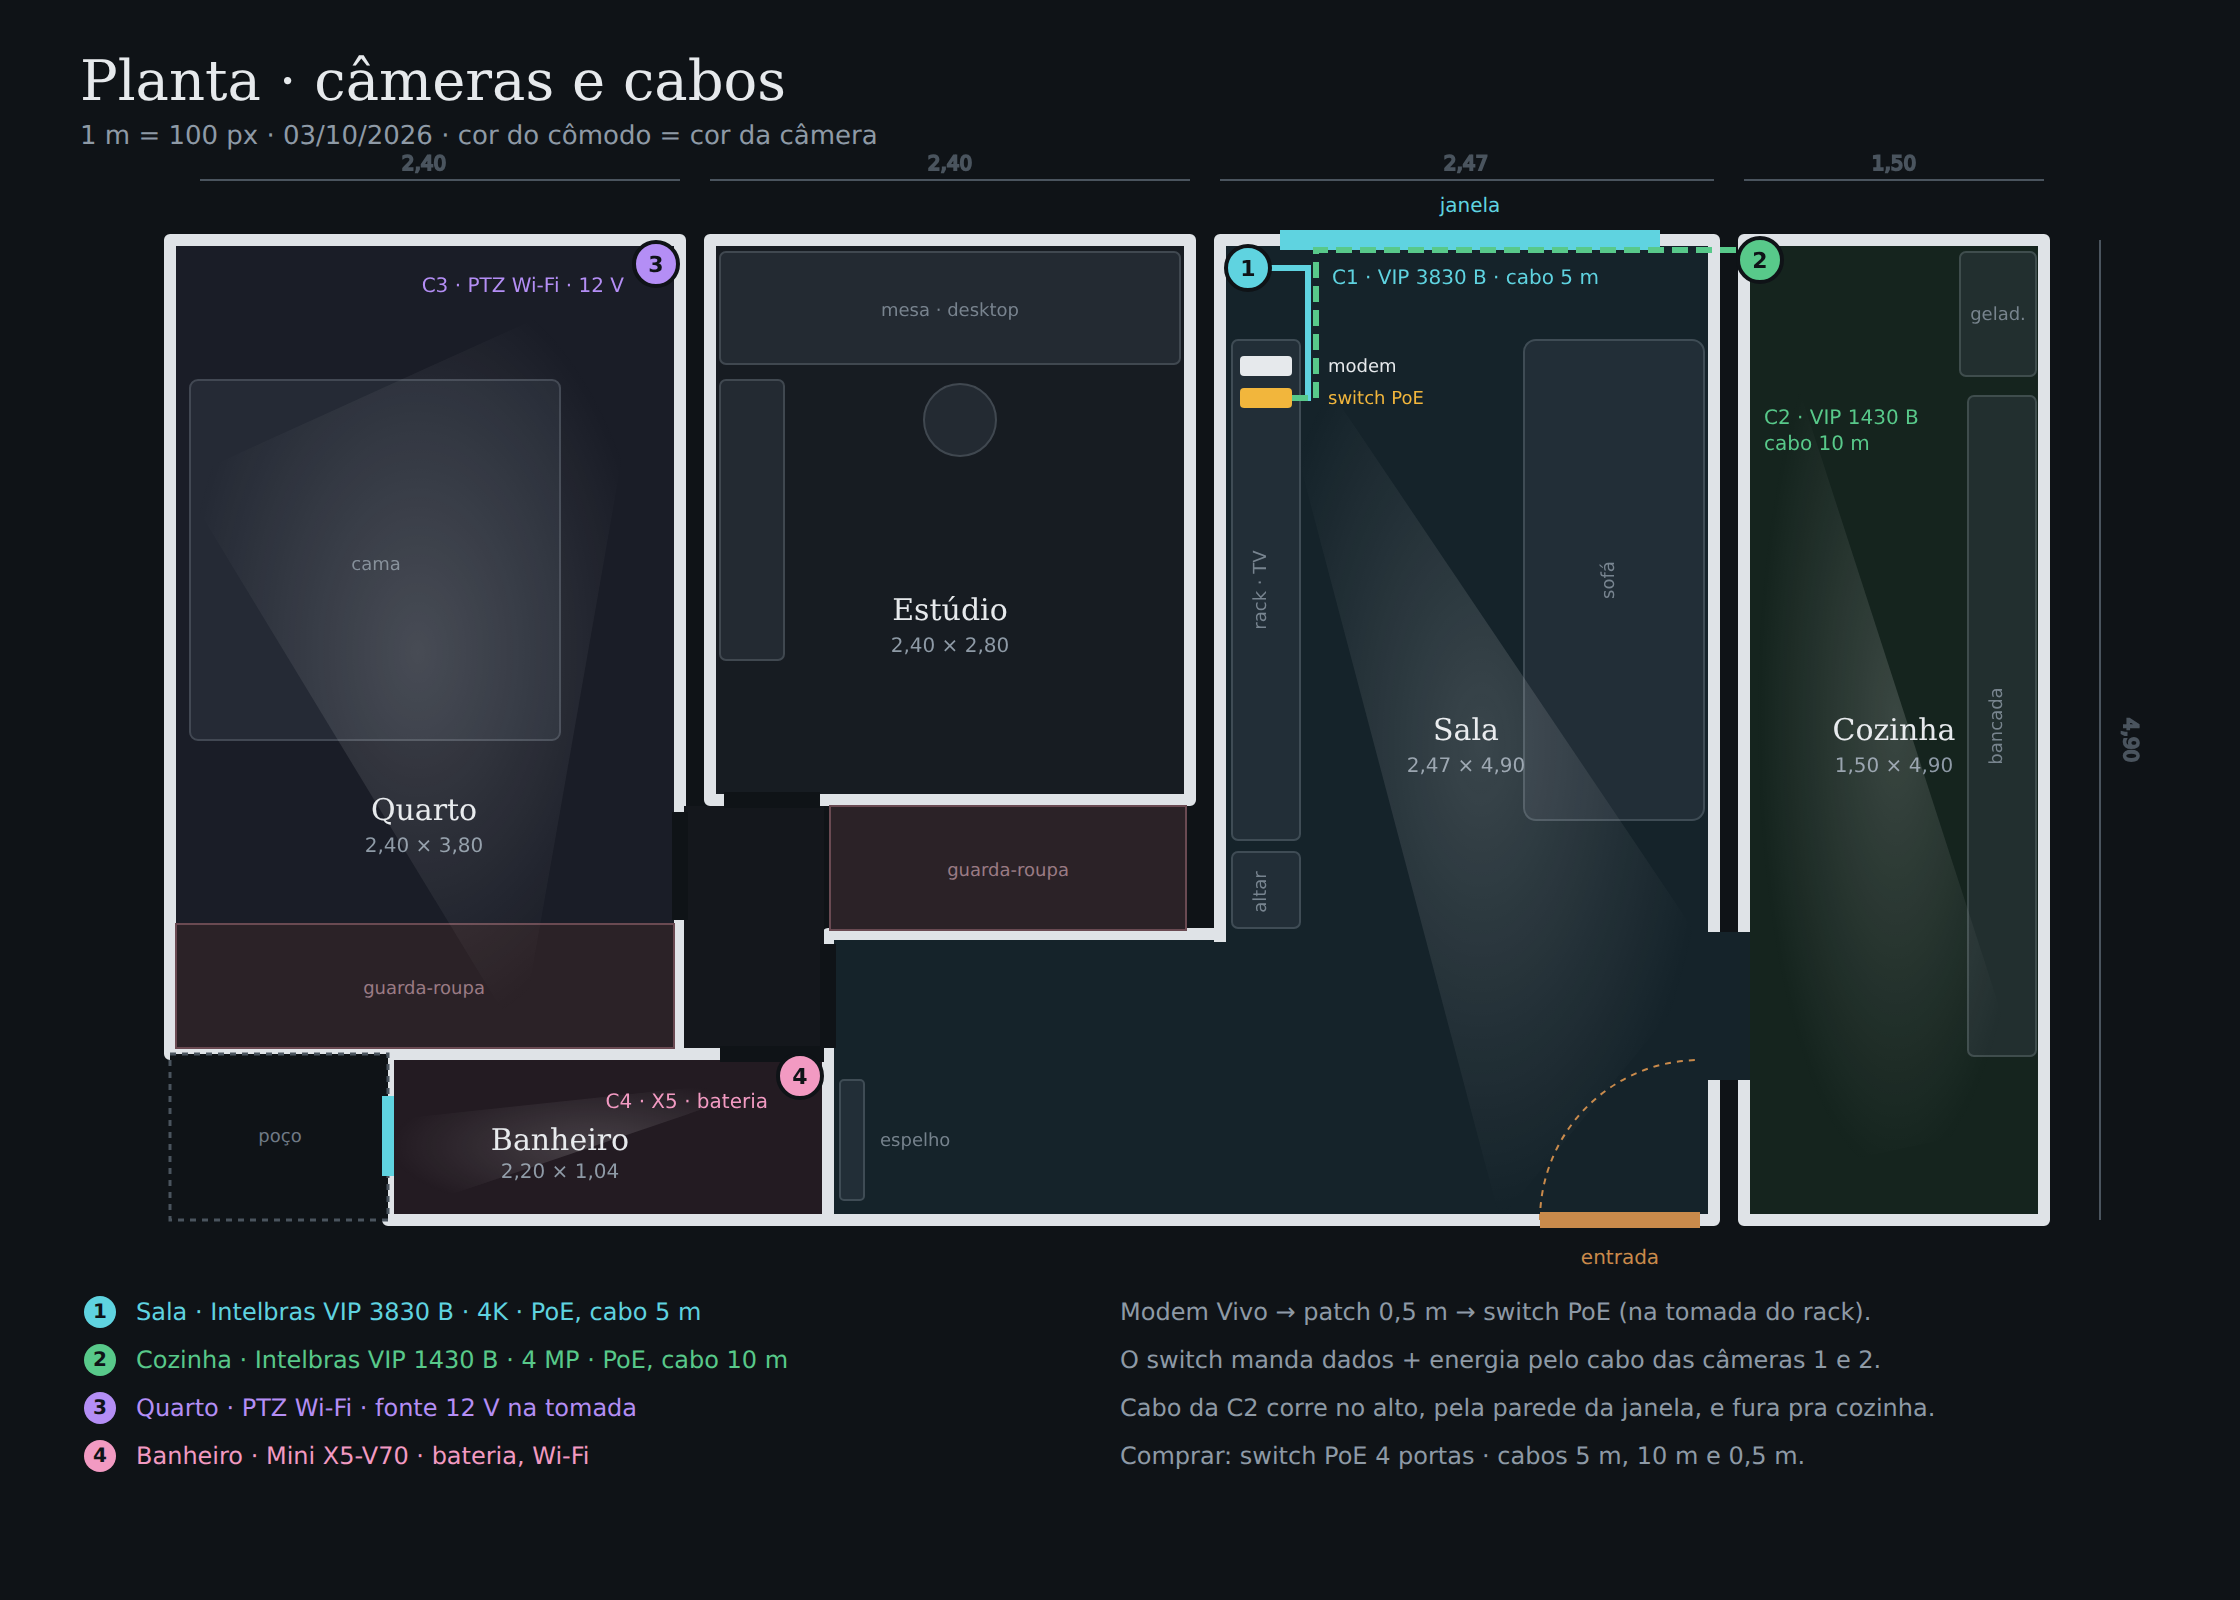
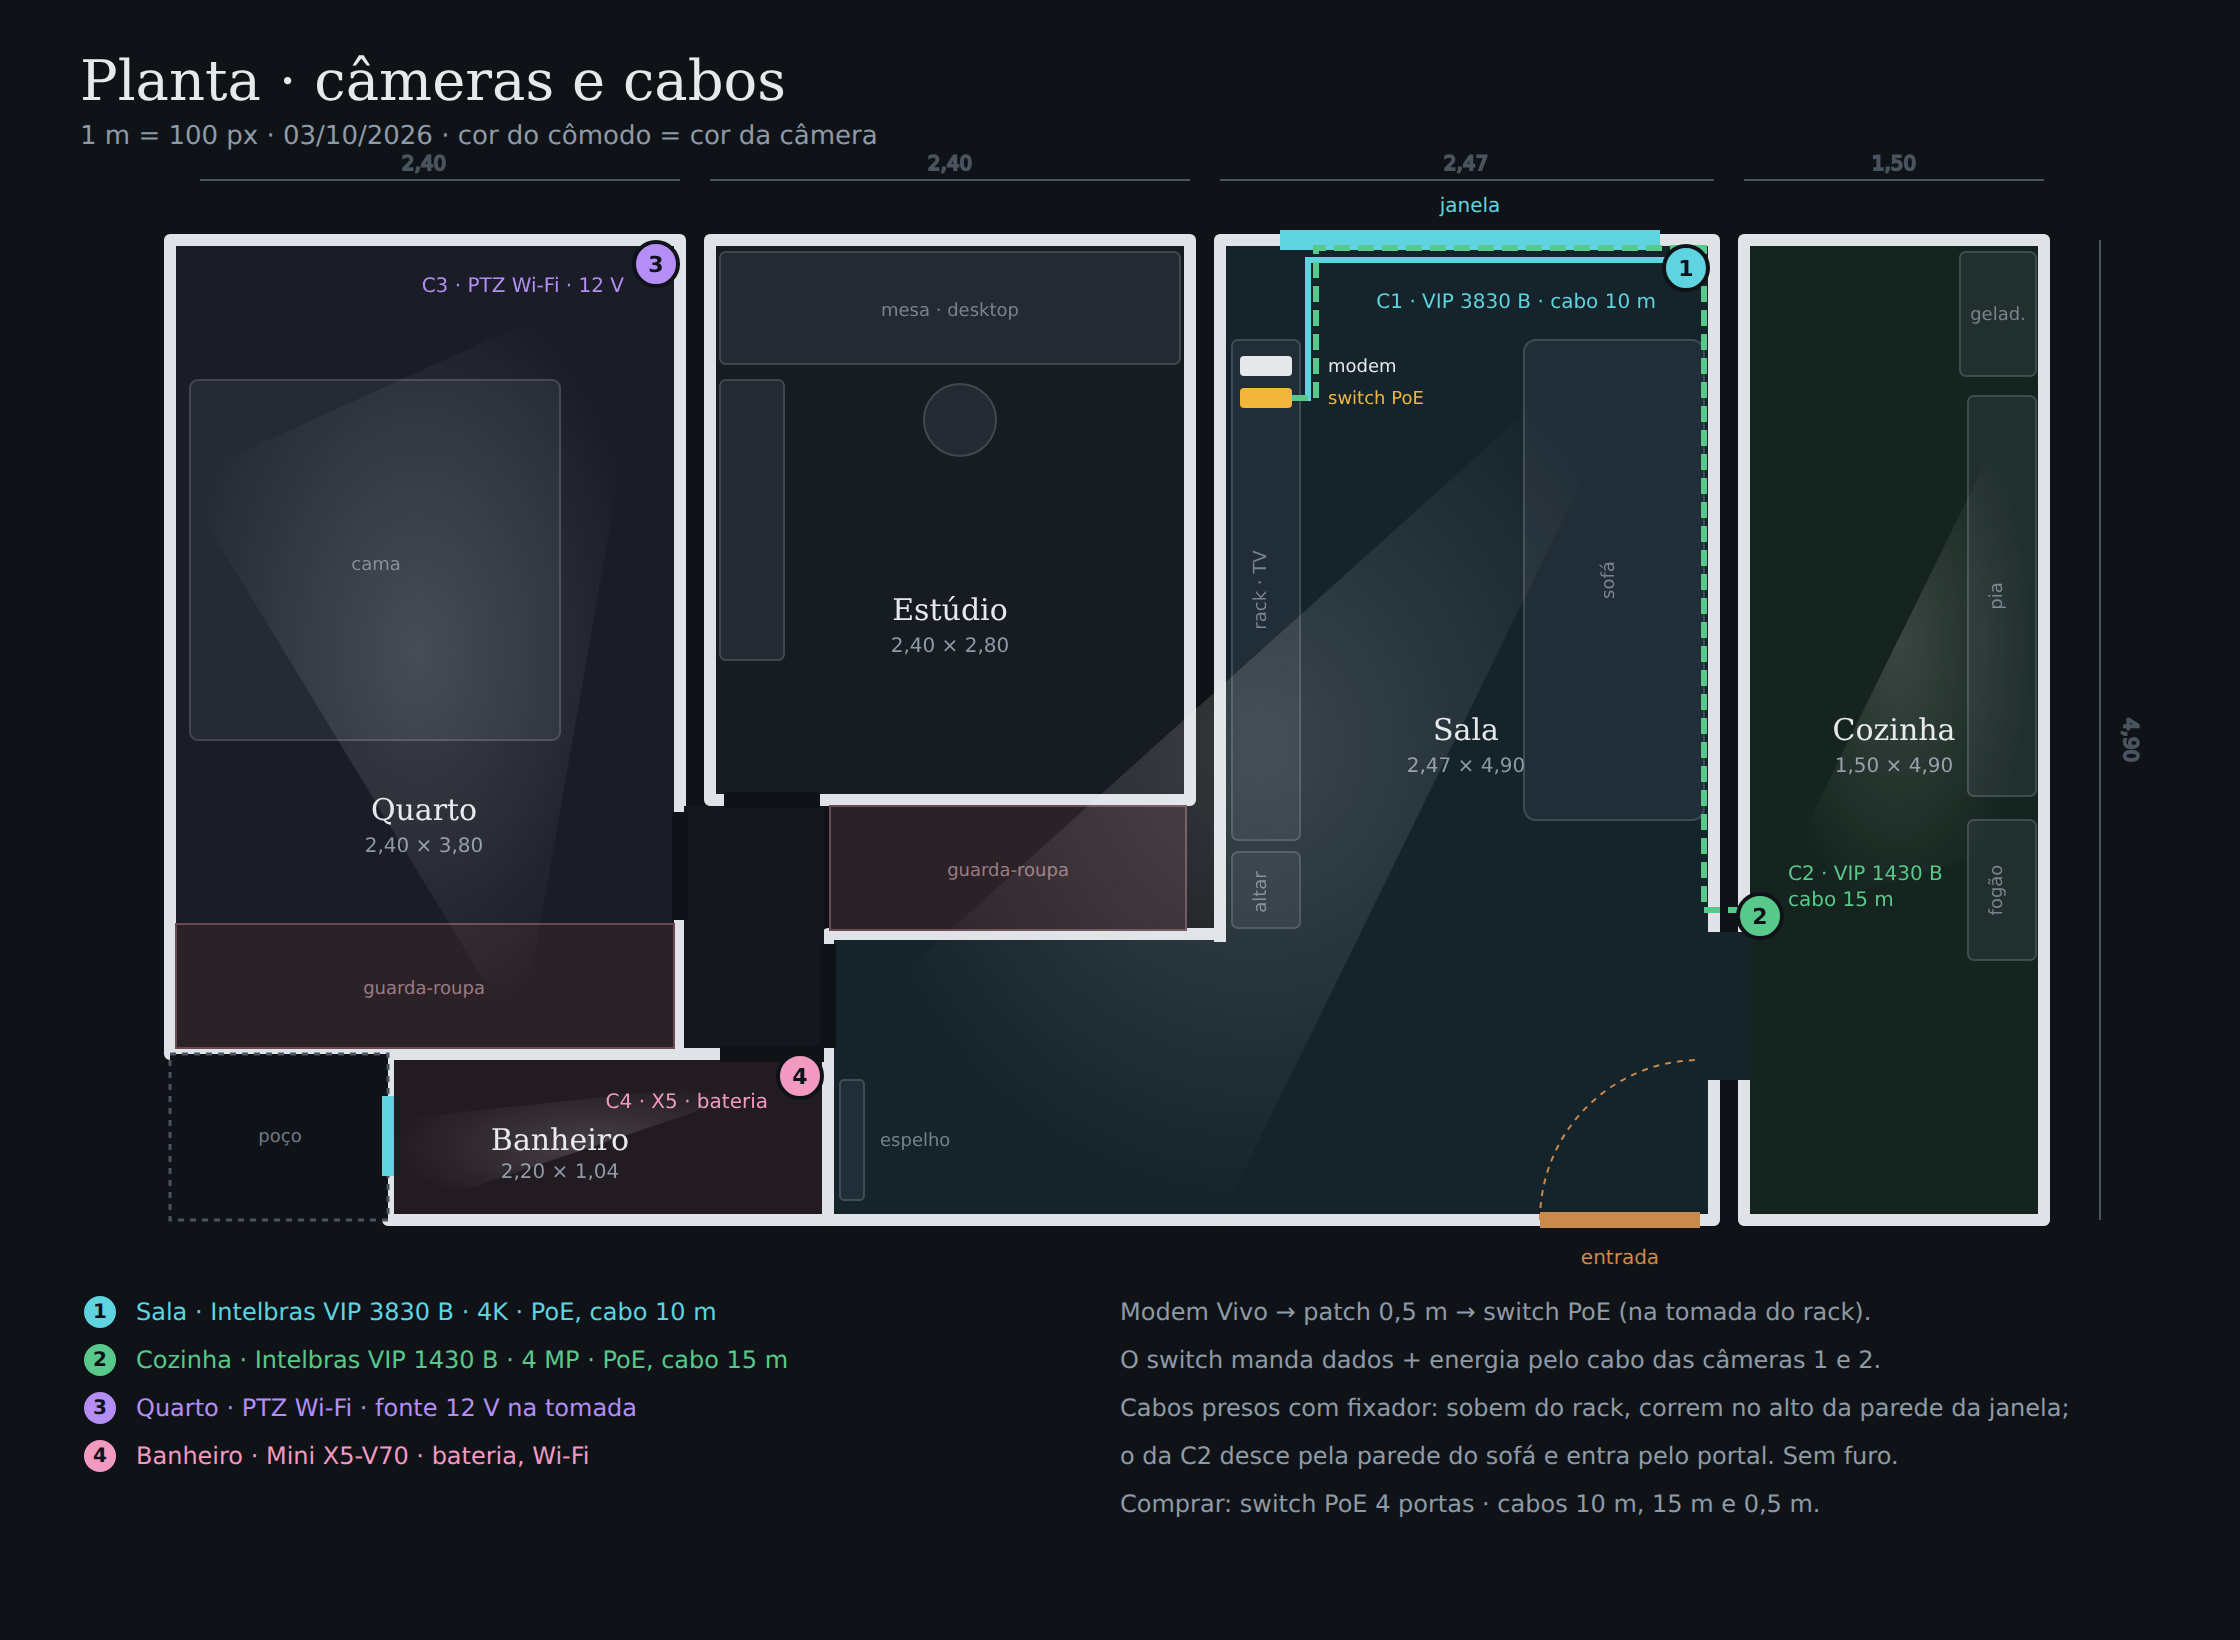
Câmeras reposicionadas: C1 no canto janela/sofá, C2 no portal da cozinha; cabos sem furo (10 m + 15 m)
Claude-Session: https://claude.ai/code/session_01F69cVt87X4mSze32jm77sF

diff --git a/cameras/esquema-cabos.html b/cameras/esquema-cabos.html
@@ -66,7 +66,7 @@ footer{margin-top:40px;font-size:.8rem;color:var(--muted)}
 <div class="wrap">
   <div class="eyebrow">Visões Filmes · casa · 02/10/2026</div>
   <h1>Cabos das Câmeras</h1>
-  <p class="lede">Roteador Vivo e switch PoE ficam no rack da TV, na parede do altar. Quatro câmeras: 4K na sala, 4 MP na cozinha (as duas por cabo PoE), PTZ no quarto e X5 no banheiro (Wi-Fi). Os campos já vêm com as medidas da planta; ajusta se a trena disser outra coisa.</p>
+  <p class="lede">Roteador Vivo e switch PoE ficam no rack da TV. Quatro câmeras: 4K na sala, 4 MP na cozinha (as duas por cabo PoE preso na parede, sem furo), PTZ no quarto e X5 no banheiro (Wi-Fi). Os campos já vêm com as medidas da planta; ajusta se a trena disser outra coisa.</p>
 
   <section>
     <h2>Planta</h2>
@@ -152,11 +152,11 @@ footer{margin-top:40px;font-size:.8rem;color:var(--muted)}
           <!-- C1 -->
           <line x1="380" y1="55" x2="520" y2="30" stroke="#5fd3e0" stroke-width="3" marker-end="url(#a2)"/>
           <rect x="522" y="12" width="220" height="38" rx="6" fill="var(--panel)" stroke="#5fd3e0" stroke-width="1.5"/>
-          <text x="632" y="28" text-anchor="middle" fill="#5fd3e0" font-weight="600">C1 · sala · VIP 3830 B</text><text x="632" y="43" text-anchor="middle" fill="var(--muted)" font-size="11">cabo PoE 5 m: dados + energia</text>
+          <text x="632" y="28" text-anchor="middle" fill="#5fd3e0" font-weight="600">C1 · sala · VIP 3830 B</text><text x="632" y="43" text-anchor="middle" fill="var(--muted)" font-size="11">cabo PoE 10 m: dados + energia</text>
           <!-- C2 -->
           <line x1="380" y1="80" x2="520" y2="88" stroke="#58c98a" stroke-width="3" marker-end="url(#a2)"/>
           <rect x="522" y="70" width="220" height="38" rx="6" fill="var(--panel)" stroke="#58c98a" stroke-width="1.5"/>
-          <text x="632" y="86" text-anchor="middle" fill="#58c98a" font-weight="600">C2 · cozinha · VIP 1430 B</text><text x="632" y="101" text-anchor="middle" fill="var(--muted)" font-size="11">cabo PoE 10 m: dados + energia</text>
+          <text x="632" y="86" text-anchor="middle" fill="#58c98a" font-weight="600">C2 · cozinha · VIP 1430 B</text><text x="632" y="101" text-anchor="middle" fill="var(--muted)" font-size="11">cabo PoE 15 m: dados + energia</text>
           <!-- wifi -->
           <path d="M85 94 L85 160" stroke="var(--wifi)" stroke-width="2" stroke-dasharray="5 4"/>
           <text x="85" y="178" text-anchor="middle" fill="var(--wifi)" font-size="11">Wi-Fi 2,4 GHz</text>
@@ -181,14 +181,14 @@ footer{margin-top:40px;font-size:.8rem;color:var(--muted)}
       <table>
         <thead><tr><th>Opção</th><th>O que compra</th><th style="text-align:right">Total aprox.</th></tr></thead>
         <tbody>
-          <tr><td><b>A · recomendada</b><br><span class="note">switch PoE</span></td><td>Switch Hikvision DS-3E0105P-E (4 portas PoE 802.3af) ~R$ 250 · cabo 5 m ~R$ 15 · cabo 10 m ~R$ 25 · patch 0,5 m ~R$ 8. Um cabo por câmera, sem fonte, sem tomada perto da câmera. Sobram 2 portas PoE pra crescer.</td><td class="n">R$ 300</td></tr>
-          <tr><td>A2<br><span class="note">switch Intelbras</span></td><td>Mesmo esquema com Intelbras SF 500 PoE ~R$ 380. Casa com as câmeras Intelbras, mas faz a mesma coisa que o Hikvision.</td><td class="n">R$ 430</td></tr>
-          <tr><td>B<br><span class="note">injetores PoE</span></td><td>2 injetores TP-Link TL-POE150S ~R$ 130 cada, ligados em 2 portas do modem, + os mesmos cabos. Sem switch, mas duas fontes a mais no rack e não cresce.</td><td class="n">R$ 310</td></tr>
-          <tr><td>C<br><span class="note">mais barata</span></td><td>2 fontes 12 V 1 A ~R$ 20 cada + cabos de rede direto no modem (3 portas livres). Exige tomada a até 1,5 m de cada câmera: na sala tem a régua do rack, na cozinha tem tomada. Dois cabos por câmera.</td><td class="n">R$ 90</td></tr>
+          <tr><td><b>A · recomendada</b><br><span class="note">switch PoE</span></td><td>Switch Hikvision DS-3E0105P-E (4 portas PoE 802.3af) ~R$ 250 · cabo 10 m ~R$ 25 · cabo 15 m ~R$ 35 · patch 0,5 m ~R$ 8. Um cabo por câmera, sem fonte, sem tomada perto da câmera. Sobram 2 portas PoE pra crescer.</td><td class="n">R$ 320</td></tr>
+          <tr><td>A2<br><span class="note">switch Intelbras</span></td><td>Mesmo esquema com Intelbras SF 500 PoE ~R$ 380. Casa com as câmeras Intelbras, mas faz a mesma coisa que o Hikvision.</td><td class="n">R$ 450</td></tr>
+          <tr><td>B<br><span class="note">injetores PoE</span></td><td>2 injetores TP-Link TL-POE150S ~R$ 130 cada, ligados em 2 portas do modem, + os mesmos cabos. Sem switch, mas duas fontes a mais no rack e não cresce.</td><td class="n">R$ 330</td></tr>
+          <tr><td>C<br><span class="note">mais barata</span></td><td>2 fontes 12 V 1 A ~R$ 20 cada + cabos de rede direto no modem (3 portas livres). Exige tomada a até 1,5 m de cada câmera: na sala tem a régua do rack, na cozinha tem tomada. Dois cabos por câmera.</td><td class="n">R$ 110</td></tr>
         </tbody>
-        <tfoot><tr><td>Em todas</td><td>Canaleta adesiva opcional, ~R$ 10 a barra de 2 m. Furo na parede da janela pra passar o cabo da cozinha, ou contornar pelo portal com cabo de 15 m (~R$ 35).</td><td class="n">—</td></tr></tfoot>
+        <tfoot><tr><td>Em todas</td><td>Fixadores de cabo com prego, ~R$ 10 o pacote de 100. Canaleta adesiva opcional, ~R$ 10 a barra de 2 m.</td><td class="n">—</td></tr></tfoot>
       </table>
-      <p class="rule">Por que A e não C: a C1 fica no alto da quina da janela, longe da régua. Com PoE o cabo de rede sobe sozinho e a fonte fica no rack. Com 12 V tu passa dois cabos pela mesma quina. A diferença de ~R$ 200 compra a limpeza da instalação.</p>
+      <p class="rule">Por que A e não C: a C1 fica no alto do canto da janela com o sofá, longe da régua. Com PoE o cabo de rede sobe sozinho e a fonte fica no rack. Com 12 V tu passa dois cabos pela mesma quina. A diferença de ~R$ 200 compra a limpeza da instalação.</p>
     </div>
   </section>
 
@@ -205,9 +205,9 @@ footer{margin-top:40px;font-size:.8rem;color:var(--muted)}
 
       <div class="panel">
         <header><span class="tag cable">T1</span><strong>Switch → VIP 3830 B</strong><span class="tag">sala</span></header>
-        <div class="path">Sai do rack, corre pelo rodapé ou atrás do rack até a quina da parede da janela, sobe até o ponto da câmera no alto.</div>
+        <div class="path">Sai do switch no rack, sobe até o alto da parede, corre pela parede da janela preso com fixador e chega à câmera no canto da janela com o sofá. Dali ela enxerga a porta de entrada e a boca do corredor.</div>
         <div class="fields">
-          <label>rack → quina (m)<input type="number" id="t1a" min="0" step="0.1" inputmode="decimal" placeholder="0,0" value="0.5"></label>
+          <label>rack → canto da janela, pelo alto (m)<input type="number" id="t1a" min="0" step="0.1" inputmode="decimal" placeholder="0,0" value="2.9"></label>
           <label>subida até a câmera (m)<input type="number" id="t1b" min="0" step="0.1" inputmode="decimal" placeholder="0,0" value="1.7"></label>
         </div>
         <div class="result"><span>Caminho <b id="t1sum">—</b> · com folga <b id="t1need">—</b></span><span>Comprar <b class="buy" id="t1buy">—</b></span></div>
@@ -215,10 +215,10 @@ footer{margin-top:40px;font-size:.8rem;color:var(--muted)}
 
       <div class="panel">
         <header><span class="tag cable">T2</span><strong>Switch → VIP 1430 B</strong><span class="tag">cozinha</span></header>
-        <div class="path">Sai do rack, sobe até o alto, corre pela parede da janela até a divisa com a cozinha, atravessa por um furo e chega à câmera no canto da cozinha, olhando pro portal. Alternativa sem furo: contornar pelo portal da cozinha, uns 3 m a mais.</div>
+        <div class="path">Mesmo caminho da T1 até o canto da janela, depois desce pela parede do sofá até o portal da cozinha, entra pelo portal e chega à câmera logo acima dele, do lado de dentro, olhando pra pia. Tudo preso com fixador, sem furo.</div>
         <div class="fields">
-          <label>rack → subida (m)<input type="number" id="t2a" min="0" step="0.1" inputmode="decimal" placeholder="0,0" value="0.5"></label>
-          <label>parede da janela até a cozinha (m)<input type="number" id="t2b" min="0" step="0.1" inputmode="decimal" placeholder="0,0" value="2.7"></label>
+          <label>rack até a subida (m)<input type="number" id="t2a" min="0" step="0.1" inputmode="decimal" placeholder="0,0" value="0.5"></label>
+          <label>janela + parede do sofá até o portal (m)<input type="number" id="t2b" min="0" step="0.1" inputmode="decimal" placeholder="0,0" value="5.9"></label>
           <label>subida até a câmera (m)<input type="number" id="t2c" min="0" step="0.1" inputmode="decimal" placeholder="0,0" value="1.7"></label>
           <label>fio longo que já tenho, se servir (m)<input type="number" id="t2have" min="0" step="0.5" inputmode="decimal" placeholder="0,0"></label>
         </div>
